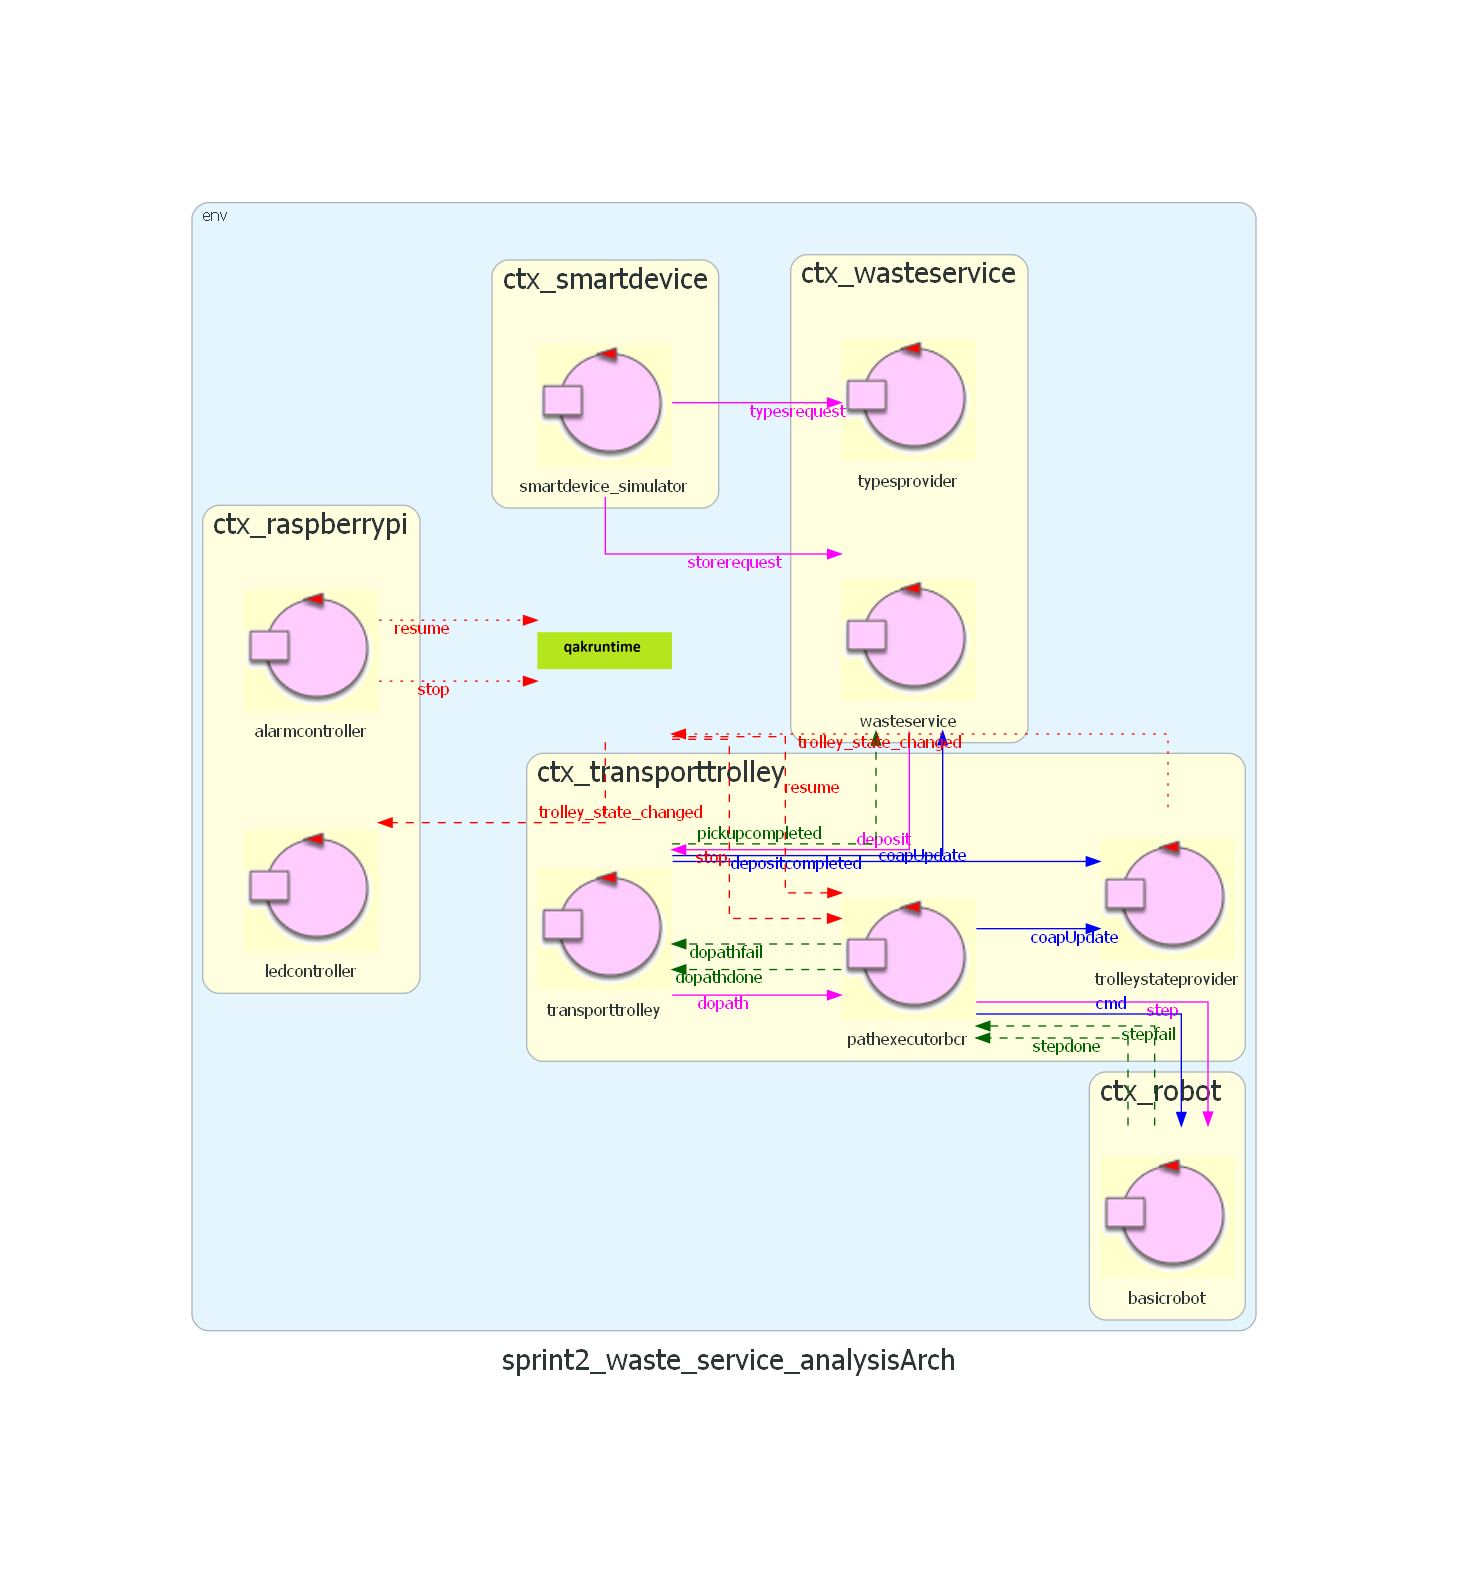
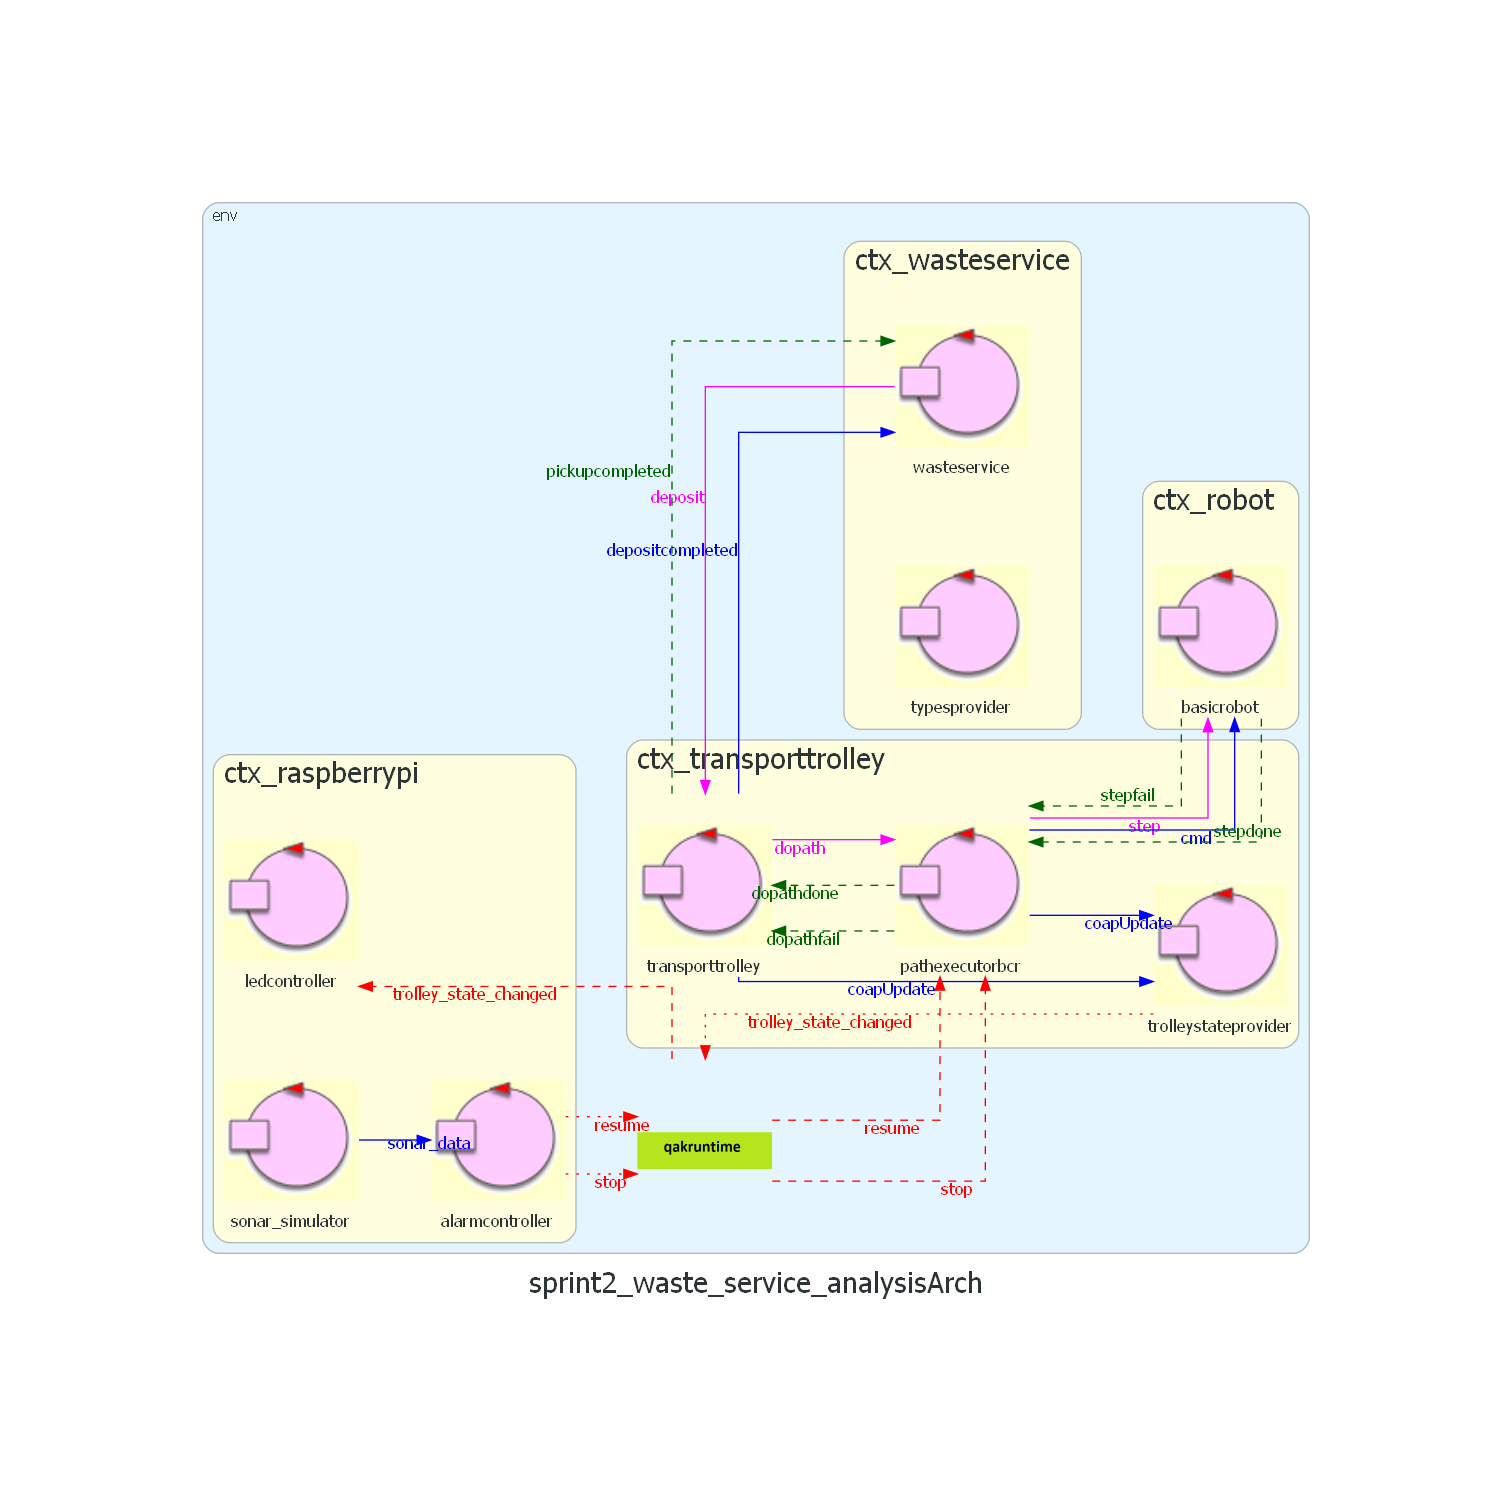
update docs sprint2

Changed region(s): [[0.1234, 0.1227, 0.8636, 0.8899], [0.6169, 0.7672, 0.6477, 0.7979], [0.586, 0.7365, 0.6169, 0.7672]]

diff --git a/Sprint2/Sprint2_ProblemAnalysis/src/it/unibo/sonar_simulator/Sonar_simulator.kt b/Sprint2/Sprint2_ProblemAnalysis/src/it/unibo/sonar_simulator/Sonar_simulator.kt
@@ -1,0 +1,45 @@
+/* Generated by AN DISI Unibo */ 
+package it.unibo.sonar_simulator
+
+import it.unibo.kactor.*
+import alice.tuprolog.*
+import kotlinx.coroutines.CoroutineScope
+import kotlinx.coroutines.delay
+import kotlinx.coroutines.launch
+import kotlinx.coroutines.runBlocking
+	
+class Sonar_simulator ( name: String, scope: CoroutineScope  ) : ActorBasicFsm( name, scope ){
+
+	override fun getInitialState() : String{
+		return "state_init"
+	}
+	override fun getBody() : (ActorBasicFsm.() -> Unit){
+		val interruptedStateTransitions = mutableListOf<Transition>()
+		return { //this:ActionBasciFsm
+				state("state_init") { //this:State
+					action { //it:State
+						println("[SonarMockTest] Started.")
+						delay(10000) 
+						//genTimer( actor, state )
+					}
+					//After Lenzi Aug2002
+					sysaction { //it:State
+					}	 	 
+					 transition( edgeName="goto",targetState="state_detect", cond=doswitch() )
+				}	 
+				state("state_detect") { //this:State
+					action { //it:State
+						 var Distance = kotlin.random.Random.nextInt(0, 100)  
+						println("[SonarMockTest] Sending distance: $Distance")
+						forward("sonar_data", "sonar_data($Distance)" ,"alarmcontroller" ) 
+						delay(7000) 
+						//genTimer( actor, state )
+					}
+					//After Lenzi Aug2002
+					sysaction { //it:State
+					}	 	 
+					 transition( edgeName="goto",targetState="state_detect", cond=doswitch() )
+				}	 
+			}
+		}
+}

diff --git a/Sprint2/resources/userDocs/conclusions.html b/Sprint2/resources/userDocs/conclusions.html
@@ -324,7 +324,7 @@
             The next sprint is <a href="../../../Sprint3/index.html">Sprint3</a>, which involves the requirement <b>3</b>.
 
             <h3 id="Sprint3"><b>Sprint3</b> - Monitoring</h3>
-            The Sprint3 will involve the creation of a Web application <i>WasteServiceStatusGUI</i>:
+            The Sprint3 will involve the creation of a graphic application <i>WasteServiceStatusGUI</i>:
             <ul>
                 <li>
                     shows the state of the Service-Area:

diff --git a/Sprint2/Sprint2_ProblemAnalysis/Arch_sprint2_waste_service_analysis.py b/Sprint2/Sprint2_ProblemAnalysis/Arch_sprint2_waste_service_analysis.py
@@ -27,6 +27,7 @@ with Diagram('sprint2_waste_service_analysisArch', show=False, outformat='png', 
           trolleystateprovider=Custom('trolleystateprovider','./qakicons/symActorSmall.png')
           pathexecutorbcr=Custom('pathexecutorbcr','./qakicons/symActorSmall.png')
      with Cluster('ctx_raspberrypi', graph_attr=nodeattr):
+          sonar_simulator=Custom('sonar_simulator','./qakicons/symActorSmall.png')
           alarmcontroller=Custom('alarmcontroller','./qakicons/symActorSmall.png')
           ledcontroller=Custom('ledcontroller','./qakicons/symActorSmall.png')
      with Cluster('ctx_robot', graph_attr=nodeattr):
@@ -46,6 +47,7 @@ with Diagram('sprint2_waste_service_analysisArch', show=False, outformat='png', 
      sys >> Edge(color='red', style='dashed', xlabel='resume', fontcolor='red') >> pathexecutorbcr
      basicrobot >> Edge(color='darkgreen', style='dashed', xlabel='stepdone', fontcolor='darkgreen') >> pathexecutorbcr
      basicrobot >> Edge(color='darkgreen', style='dashed', xlabel='stepfail', fontcolor='darkgreen') >> pathexecutorbcr
+     sonar_simulator >> Edge(color='blue', style='solid', xlabel='sonar_data', fontcolor='blue') >> alarmcontroller
      alarmcontroller >> Edge( xlabel='stop', **eventedgeattr, fontcolor='red') >> sys
      alarmcontroller >> Edge( xlabel='resume', **eventedgeattr, fontcolor='red') >> sys
      sys >> Edge(color='red', style='dashed', xlabel='trolley_state_changed', fontcolor='red') >> ledcontroller
